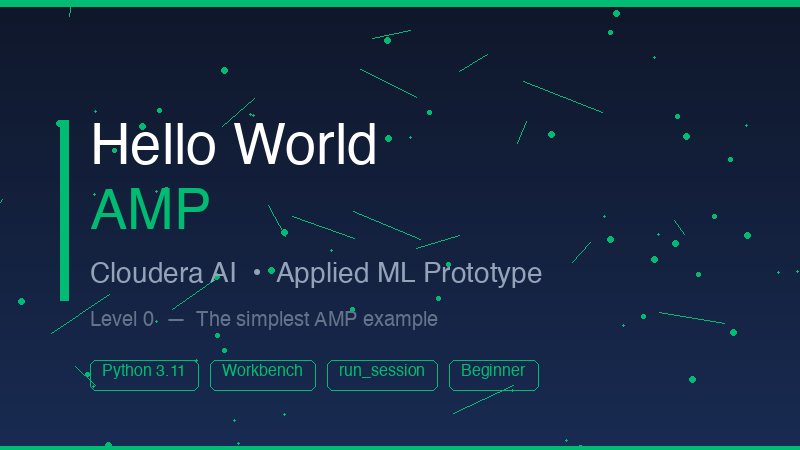
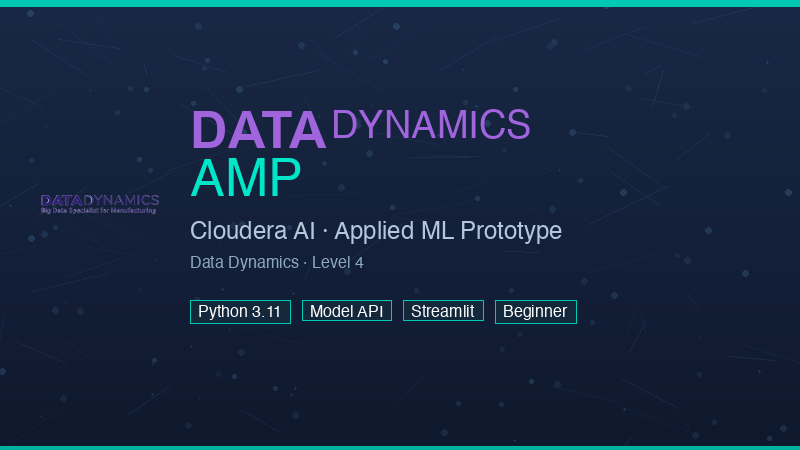
feat: update cover.png with Data Dynamics branding
- DATA bold, DYNAMICS smaller (38pt)
- Purple color scheme
- Add scripts/generate_cover.py for regeneration

Made-with: Cursor

diff --git a/scripts/generate_cover.py b/scripts/generate_cover.py
@@ -1,0 +1,114 @@
+#!/usr/bin/env python3
+"""
+Generate cover.png for AMP catalog tile.
+Uses Data Dynamics logo with AI enterprise aesthetic.
+"""
+
+import io
+import math
+import random
+from pathlib import Path
+
+import requests
+from PIL import Image, ImageDraw, ImageFont
+
+LOGO_URL = "http://data-dynamics.io/logo-small.png"
+OUTPUT_PATH = Path(__file__).parent.parent / "assets" / "cover.png"
+WIDTH, HEIGHT = 800, 450
+
+
+def download_logo() -> Image.Image:
+    r = requests.get(LOGO_URL, timeout=10)
+    r.raise_for_status()
+    return Image.open(io.BytesIO(r.content)).convert("RGBA")
+
+
+def draw_ai_network_bg(draw: ImageDraw.ImageDraw, w: int, h: int):
+    """Subtle neural network / data flow pattern."""
+    for _ in range(80):
+        x1, y1 = random.randint(0, w), random.randint(0, h)
+        x2 = x1 + random.randint(-80, 80)
+        y2 = y1 + random.randint(-40, 40)
+        alpha = random.randint(8, 25)
+        draw.line([(x1, y1), (x2, y2)], fill=(100, 180, 255, alpha), width=1)
+    for _ in range(120):
+        x, y = random.randint(0, w), random.randint(0, h)
+        r = random.randint(1, 3)
+        alpha = random.randint(15, 40)
+        draw.ellipse([x - r, y - r, x + r, y + r], fill=(120, 200, 255, alpha))
+
+
+def main():
+    # Base: dark gradient (navy -> deep blue)
+    img = Image.new("RGB", (WIDTH, HEIGHT))
+    draw = ImageDraw.Draw(img)
+    for y in range(HEIGHT):
+        t = y / HEIGHT
+        r = int(15 + 10 * (1 - t))
+        g = int(25 + 15 * (1 - t))
+        b = int(45 + 25 * (1 - t))
+        draw.line([(0, y), (WIDTH, y)], fill=(r, g, b))
+
+    # Overlay: AI network pattern
+    overlay = Image.new("RGBA", (WIDTH, HEIGHT), (0, 0, 0, 0))
+    draw_ai_network_bg(ImageDraw.Draw(overlay), WIDTH, HEIGHT)
+    img = Image.alpha_composite(img.convert("RGBA"), overlay).convert("RGB")
+
+    # Top accent bar (cyan/teal - AI feel)
+    draw = ImageDraw.Draw(img)
+    draw.rectangle([0, 0, WIDTH, 6], fill=(0, 200, 180))
+    draw.rectangle([0, HEIGHT - 4, WIDTH, HEIGHT], fill=(0, 180, 160))
+
+    # Download and composite logo
+    logo = download_logo()
+    logo_w, logo_h = logo.size
+    scale = min(120 / logo_w, 80 / logo_h)
+    new_w = int(logo_w * scale)
+    new_h = int(logo_h * scale)
+    logo = logo.resize((new_w, new_h), Image.Resampling.LANCZOS)
+    logo_x, logo_y = 40, (HEIGHT - new_h) // 2 - 20
+    img.paste(logo, (logo_x, logo_y), logo)
+
+    # Text
+    draw = ImageDraw.Draw(img)
+    try:
+        font_large = ImageFont.truetype("/System/Library/Fonts/Helvetica.ttc", 52)
+        font_dynamics = ImageFont.truetype("/System/Library/Fonts/Helvetica.ttc", 38)
+        font_large_bold = font_large
+        try:
+            font_large_bold = ImageFont.truetype("/System/Library/Fonts/Supplemental/Arial Bold.ttf", 52)
+        except OSError:
+            pass
+        font_med = ImageFont.truetype("/System/Library/Fonts/Helvetica.ttc", 24)
+        font_small = ImageFont.truetype("/System/Library/Fonts/Helvetica.ttc", 16)
+    except OSError:
+        font_large = font_dynamics = font_large_bold = font_med = font_small = ImageFont.load_default()
+
+    text_x = logo_x + new_w + 30
+    purple = (160, 100, 220)
+    draw.text((text_x, 100), "DATA", fill=purple, font=font_large_bold)
+    data_bbox = draw.textbbox((0, 0), "DATA", font=font_large_bold)
+    dynamics_x = text_x + (data_bbox[2] - data_bbox[0]) + 4
+    draw.text((dynamics_x, 108), "DYNAMICS", fill=purple, font=font_dynamics)
+    draw.text((text_x, 155), "AMP", fill=(0, 230, 200), font=font_large)
+    draw.text((text_x, 220), "Cloudera AI · Applied ML Prototype", fill=(180, 200, 220), font=font_med)
+    draw.text((text_x, 255), "Data Dynamics · Level 4", fill=(140, 170, 190), font=font_small)
+
+    # Tags
+    tags = ["Python 3.11", "Model API", "Streamlit", "Beginner"]
+    tag_x, tag_y = text_x, 300
+    for tag in tags:
+        bbox = draw.textbbox((0, 0), tag, font=font_small)
+        tw, th = bbox[2] - bbox[0], bbox[3] - bbox[1]
+        draw.rectangle([tag_x, tag_y, tag_x + tw + 16, tag_y + th + 8],
+                       outline=(0, 200, 180), fill=(20, 40, 60))
+        draw.text((tag_x + 8, tag_y + 4), tag, fill="white", font=font_small)
+        tag_x += tw + 28
+
+    OUTPUT_PATH.parent.mkdir(parents=True, exist_ok=True)
+    img.save(OUTPUT_PATH, "PNG")
+    print(f"Saved: {OUTPUT_PATH}")
+
+
+if __name__ == "__main__":
+    main()
